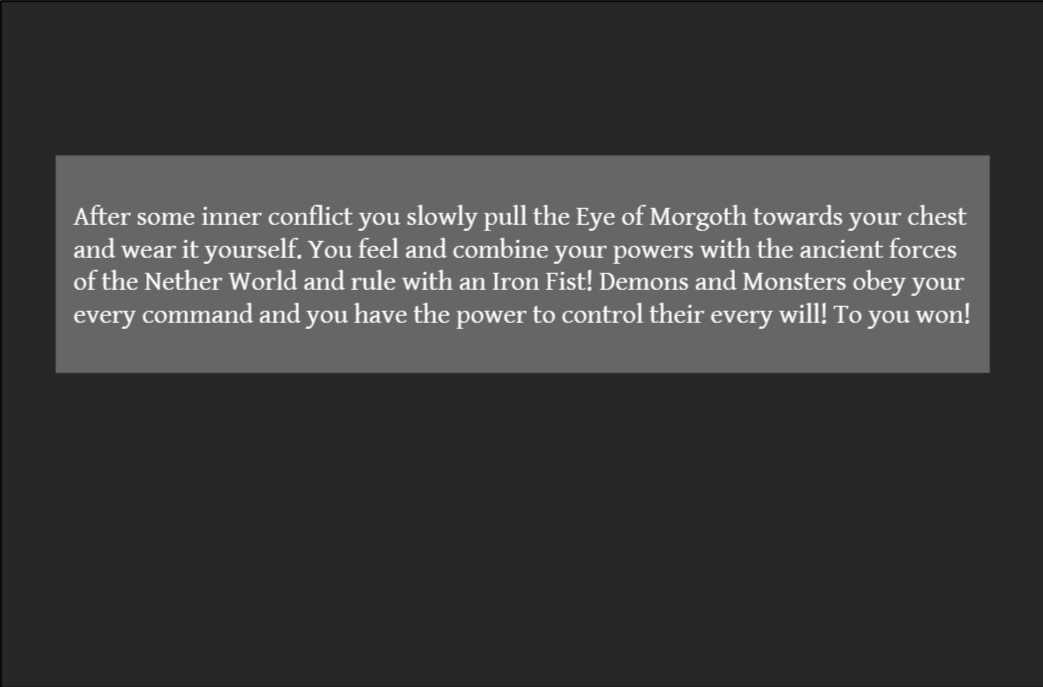
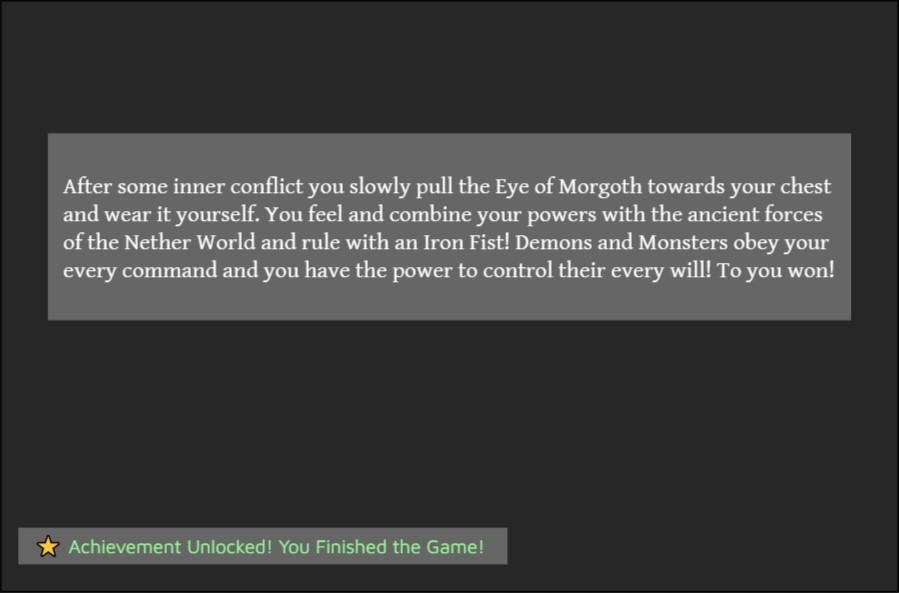
Final Version #2

diff --git a/main.py b/main.py
@@ -647,10 +647,6 @@ class Scenario9:
     self.game_instance = Button(self.game_frame, text="Confirm", font=("Skia", "12", "bold"), bg="grey70", fg="white", command=self.test_program)
     self.game_instance.place(x=465, y=340)
 
-    # You gained XP
-    self.experience = Label(self.game_frame, text="You Gained XP", font=("Skia", "10"), bg="#272727", fg="pale green")
-    self.experience.place(x=240, y=350)
-
     # Error Message 
     self.error_label = Label(self.game_frame, font=("Skia", "10"), bg="#272727", fg="red")
     self.error_label.place(x=220, y=350)
@@ -794,13 +790,9 @@ class Scenario15:
     self.game_instance = Button(self.game_frame, text="Confirm", font=("Skia", "12", "bold"), bg="grey70", fg="white", command=self.test_program)
     self.game_instance.place(x=465, y=340)
 
-    # Achievment Unlocked
-    self.experience = Label(self.game_frame, text="Achievement Unlocked! You Love Politics", font=("Skia", "10"), bg="#272727", fg="pale green")
-    self.experience.place(x=130, y=325)
-
     # Error Message 
     self.error_label = Label(self.game_frame, font=("Skia", "10"), bg="#272727", fg="red")
-    self.error_label.place(x=220, y=350)
+    self.error_label.place(x=220, y=335)
 
     # Different Scenarios
   def test_program(self):
@@ -1041,15 +1033,19 @@ class Combat1:
 
     # HP
     self.hp = Label(self.game_frame, text = hp, font=("Skia", "12", "bold"), bg="#666666", fg="white")
-    self.hp.place(x=122, y=123)
-
-    # XP
-    self.xp = Label(self.game_frame, text = xp, font=("Skia", "12", "bold"), bg="#666666", fg="white")
-    self.xp.place(x=315, y=123)
+    self.hp.place(x=110, y=123)
 
     # Attack
     self.attack = Label(self.game_frame, text = att, font=("Skia", "12", "bold"), bg="#666666", fg="white")
-    self.attack.place(x=500, y=123)
+    self.attack.place(x=250, y=123)
+
+    # XP
+    self.xp = Label(self.game_frame, text = xp, font=("Skia", "12", "bold"), bg="#666666", fg="white")
+    self.xp.place(x=385, y=123)
+
+    # Enemy HP
+    self.enemy_hp = Label(self.game_frame, text = ass_hp, font=("Skia", "12", "bold"), bg="#666666", fg="red4")
+    self.enemy_hp.place(x=490, y=136)
 
     # Gear
     self.gear = Label(self.game_frame, text = gear, font=("Skia", "6", "bold"), bg="#666666", fg="white")
@@ -1546,13 +1542,9 @@ class Scenario24:
     self.game_instance = Button(self.game_frame, text="Confirm", font=("Skia", "12", "bold"), bg="grey70", fg="white", command=self.test_program)
     self.game_instance.place(x=465, y=340)
 
-    # Achievment Unlocked
-    self.experience = Label(self.game_frame, text="Achievement Unlocked! IQ 1000 Mega Super Big Brain", font=("Skia", "10"), bg="#272727", fg="pale green")
-    self.experience.place(x=110, y=325)
-
     # Error Message 
     self.error_label = Label(self.game_frame, font=("Skia", "10"), bg="#272727", fg="red")
-    self.error_label.place(x=220, y=350)
+    self.error_label.place(x=220, y=335)
 
     # Different Scenarios
   def test_program(self):
@@ -1832,10 +1824,6 @@ class Scenario30:
     self.game_instance = Button(self.game_frame, text="Confirm", font=("Skia", "12", "bold"), bg="grey70", fg="white", command=self.test_program)
     self.game_instance.place(x=465, y=340)
 
-    # Achievment Unlocked
-    self.experience = Label(self.game_frame, text="Achievement Unlocked! Someone has Daddy Issues", font=("Skia", "10"), bg="#272727", fg="pale green")
-    self.experience.place(x=110, y=325)
-
     # Error Message 
     self.error_label = Label(self.game_frame, font=("Skia", "10"), bg="#272727", fg="red")
     self.error_label.place(x=220, y=350)
@@ -2033,15 +2021,19 @@ class Combat2:
 
     # HP
     self.hp = Label(self.game_frame, text = hp, font=("Skia", "12", "bold"), bg="#666666", fg="white")
-    self.hp.place(x=122, y=123)
-
-    # XP
-    self.xp = Label(self.game_frame, text = xp, font=("Skia", "12", "bold"), bg="#666666", fg="white")
-    self.xp.place(x=315, y=123)
+    self.hp.place(x=110, y=123)
 
     # Attack
     self.attack = Label(self.game_frame, text = att, font=("Skia", "12", "bold"), bg="#666666", fg="white")
-    self.attack.place(x=500, y=123)
+    self.attack.place(x=250, y=123)
+
+    # XP
+    self.xp = Label(self.game_frame, text = xp, font=("Skia", "12", "bold"), bg="#666666", fg="white")
+    self.xp.place(x=385, y=123)
+
+    # Enemy HP
+    self.enemy_hp = Label(self.game_frame, text = ass_hp, font=("Skia", "12", "bold"), bg="#666666", fg="red4")
+    self.enemy_hp.place(x=490, y=136)
 
     # Gear
     self.gear = Label(self.game_frame, text = gear, font=("Skia", "6", "bold"), bg="#666666", fg="white")
@@ -2331,10 +2323,6 @@ class Good_End:
     self.xp = Label(self.game_frame, text = xp, font=("Skia", "20", "bold"), bg="#666666", fg="pale green", width="8")
     self.xp.place(x=395, y=250)
 
-    # Achievment Unlocked
-    self.experience = Label(self.game_frame, text="Achievement Unlocked! You Finished the Game", font=("Skia", "10"), bg="#272727", fg="pale green")
-    self.experience.place(x=130, y=325)
-
     # Exit Button
     self.game_instance = Button(self.game_frame, text="Exit", font=("Skia", "12", "bold"), bg="grey70", fg="white", command=self.test_program)
     self.game_instance.place(x=500, y=340)
@@ -2406,10 +2394,6 @@ class Bad_End2:
     # XP
     self.xp = Label(self.game_frame, text = xp, font=("Skia", "20", "bold"), bg="#666666", fg="pale green", width="8")
     self.xp.place(x=395, y=250)
-
-    # Achievment Unlocked
-    self.experience = Label(self.game_frame, text="Achievement Unlocked! You're a Dictator Now", font=("Skia", "10"), bg="#272727", fg="pale green")
-    self.experience.place(x=130, y=325)
 
     # Exit Button
     self.game_instance = Button(self.game_frame, text="Exit", font=("Skia", "12", "bold"), bg="grey70", fg="white", command=self.test_program)
